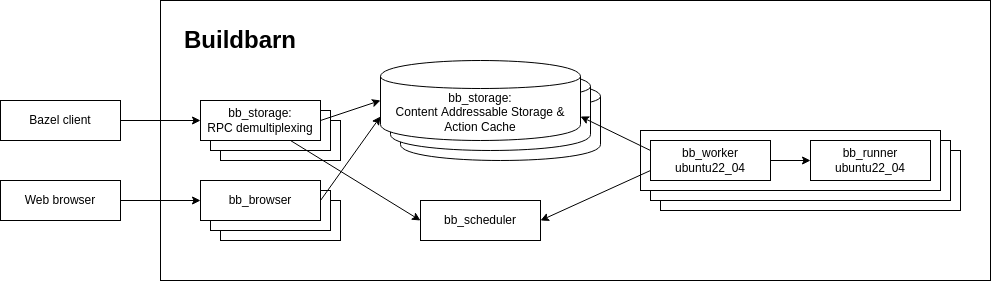
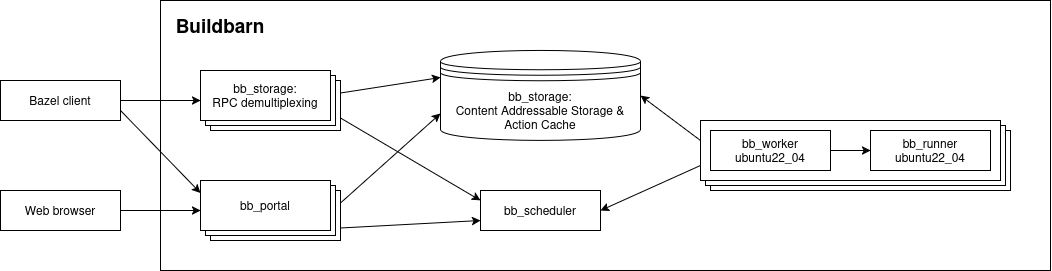
fixup! Add bb-portal to example configurations

diff --git a/README.md b/README.md
@@ -23,6 +23,7 @@ diagram, the arrows represent the direction in which network connections
 are established.
 
 <p align="center">
+  <!-- This image can be edited by importing bb-overview.xml on https://app.diagrams.net/ -->
   <img src="bb-overview.png" alt="Overview of the Buildbarn setup"/>
 </p>
 